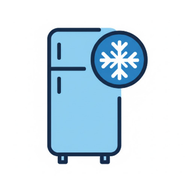
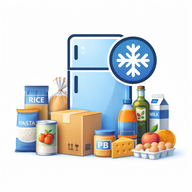
Oorspronkelijk app-icoon (frigo met boodschappen) terugzetten
Claude-Session: https://claude.ai/code/session_01FadGsbVCpN2jotpdLZrqtf

diff --git a/index.html b/index.html
@@ -11,9 +11,9 @@
     <meta name="apple-mobile-web-app-status-bar-style" content="default">
     <meta name="apple-mobile-web-app-title" content="Voorraad">
 
-    <link rel="icon" href="favicon.ico?v=2" sizes="any">
-    <link rel="icon" type="image/png" sizes="32x32" href="favicon-32x32.png?v=2">
-    <link rel="apple-touch-icon" sizes="180x180" href="apple-touch-icon.png?v=2">
+    <link rel="icon" href="favicon.ico?v=3" sizes="any">
+    <link rel="icon" type="image/png" sizes="32x32" href="icon_32x32.png?v=3">
+    <link rel="apple-touch-icon" sizes="180x180" href="icon_180x180.png?v=3">
     <link rel="manifest" href="site.webmanifest.json">
 
     <link rel="preconnect" href="https://fonts.googleapis.com">
@@ -21,13 +21,13 @@
     <link rel="preconnect" href="https://firestore.googleapis.com">
     <link href="https://fonts.googleapis.com/css2?family=Inter:wght@400;500;600;700;800&display=swap" rel="stylesheet">
 
-    <link rel="stylesheet" href="assets/app.css?v=mwgl6snt">
+    <link rel="stylesheet" href="assets/app.css?v=mwglbvz9">
 
     <!-- Firebase (compat) via CDN -->
     <script defer src="https://www.gstatic.com/firebasejs/10.12.2/firebase-app-compat.js"></script>
     <script defer src="https://www.gstatic.com/firebasejs/10.12.2/firebase-auth-compat.js"></script>
     <script defer src="https://www.gstatic.com/firebasejs/10.12.2/firebase-firestore-compat.js"></script>
-    <script defer src="assets/app.js?v=mwgl6snt"></script>
+    <script defer src="assets/app.js?v=mwglbvz9"></script>
 
     <!-- Donker thema meteen toepassen om flitsen te vermijden -->
     <script>try { if (localStorage.getItem('voorraad_dark') === '1') document.documentElement.classList.add('dark'); } catch (e) {}</script>

diff --git a/dev.html b/dev.html
@@ -11,9 +11,9 @@
     <meta name="apple-mobile-web-app-status-bar-style" content="default">
     <meta name="apple-mobile-web-app-title" content="Voorraad">
 
-    <link rel="icon" href="favicon.ico?v=2" sizes="any">
-    <link rel="icon" type="image/png" sizes="32x32" href="favicon-32x32.png?v=2">
-    <link rel="apple-touch-icon" sizes="180x180" href="apple-touch-icon.png?v=2">
+    <link rel="icon" href="favicon.ico?v=3" sizes="any">
+    <link rel="icon" type="image/png" sizes="32x32" href="icon_32x32.png?v=3">
+    <link rel="apple-touch-icon" sizes="180x180" href="icon_180x180.png?v=3">
     <link rel="manifest" href="site.webmanifest.json">
 
     <link rel="preconnect" href="https://fonts.googleapis.com">
@@ -21,11 +21,11 @@
     <link rel="preconnect" href="https://firestore.googleapis.com">
     
 
-    <link rel="stylesheet" href="assets/app.css?v=mwgl6snt">
+    <link rel="stylesheet" href="assets/app.css?v=mwglbvz9">
 
     <!-- TESTVERSIE: nagemaakte Firebase met voorbeelddata (niet voor productie) -->
     <script src="dev/mock-firebase.js"></script>
-    <script defer src="assets/app.js?v=mwgl6snt"></script>
+    <script defer src="assets/app.js?v=mwglbvz9"></script>
 
     <!-- Donker thema meteen toepassen om flitsen te vermijden -->
     <script>try { if (localStorage.getItem('voorraad_dark') === '1') document.documentElement.classList.add('dark'); } catch (e) {}</script>

diff --git a/sw.js b/sw.js
@@ -3,7 +3,7 @@
 //   Zo krijg je altijd meteen de nieuwste versie, en werkt de app toch offline.
 // - Firebase-scripts en lettertypes van CDN: uit de cache (die veranderen niet per versie).
 // - Firestore/inloggen worden NIET onderschept; Firestore heeft zijn eigen offline-opslag.
-const BUILD = 'mwgl6snt';
+const BUILD = 'mwglbvz9';
 const CACHE = 'voorraad-' + BUILD;
 const CDN_CACHE = 'voorraad-cdn-v1';
 
